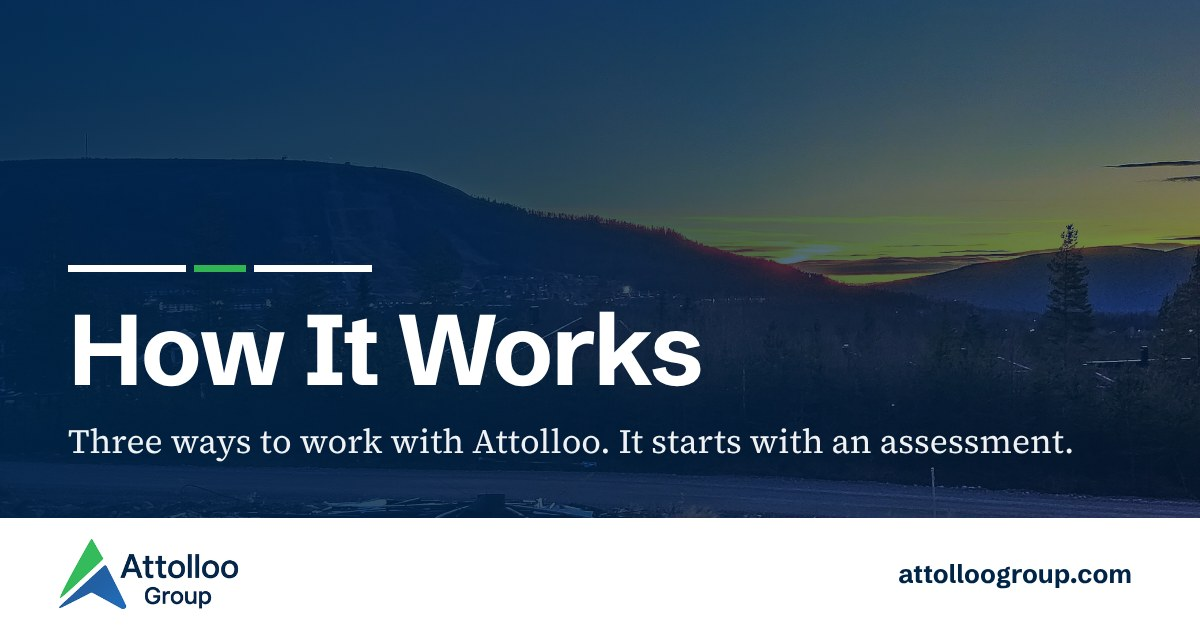
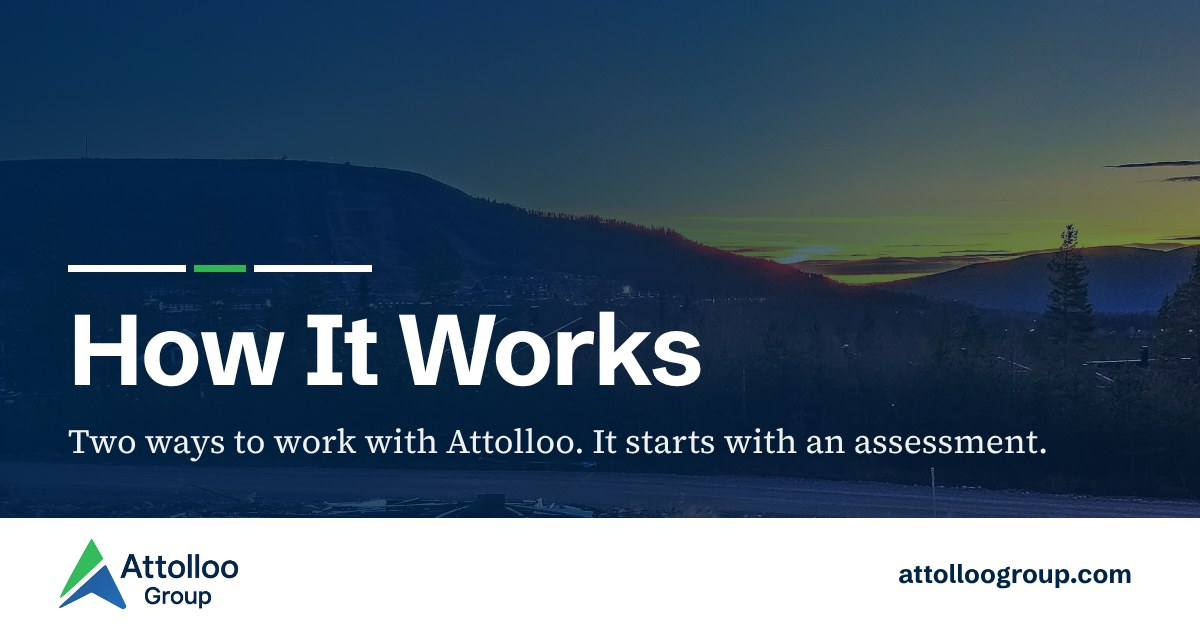
Take Executive Partnership out of the offer for now
The site now offers two things: the Readiness Assessment, and board,
advisory and mentoring roles. Interim leadership roles and equity are
no longer offered.

- Home, How It Works, About, the self-test, the film, the 404 page,
  the page description and share image for How It Works.
- The example: the comparison is now advisory role or no further
  engagement; the expected-value calculation for a partnership is out.
- Research: Executive-as-a-Service is described without reference to
  an offer on the site.

Claude-Session: https://claude.ai/code/session_01EqymyeME5KcQUJPNYzq5nF

Changed region(s): [[0.0617, 0.6635, 0.8942, 0.7238]]

diff --git a/services.html b/services.html
@@ -4,17 +4,17 @@
   <meta charset="UTF-8" />
   <meta name="viewport" content="width=device-width, initial-scale=1.0" />
   <title>How It Works – Attolloo Group</title>
-  <meta name="description" content="Three ways to work with Attolloo: a fixed-price Readiness Assessment, board, advisory and mentoring roles, and executive partnership for selected companies." />
+  <meta name="description" content="Two ways to work with Attolloo: a fixed-price Readiness Assessment that takes about three weeks, and board, advisory and mentoring roles for an agreed fee." />
   <link rel="canonical" href="https://attolloogroup.com/services.html" />
   <meta property="og:type" content="website" />
   <meta property="og:site_name" content="Attolloo Group" />
   <meta property="og:title" content="How It Works – Attolloo Group" />
-  <meta property="og:description" content="Three ways to work with Attolloo: a fixed-price Readiness Assessment, board, advisory and mentoring roles, and executive partnership for selected companies." />
+  <meta property="og:description" content="Two ways to work with Attolloo: a fixed-price Readiness Assessment that takes about three weeks, and board, advisory and mentoring roles for an agreed fee." />
   <meta property="og:url" content="https://attolloogroup.com/services.html" />
   <meta property="og:image" content="https://attolloogroup.com/images/share/share-how-it-works.jpg" />
   <meta property="og:image:width" content="1200" />
   <meta property="og:image:height" content="630" />
-  <meta property="og:image:alt" content="How It Works: three ways to work with Attolloo. It starts with an assessment." />
+  <meta property="og:image:alt" content="How It Works: two ways to work with Attolloo. It starts with an assessment." />
   <meta name="twitter:card" content="summary_large_image" />
   <meta name="twitter:image" content="https://attolloogroup.com/images/share/share-how-it-works.jpg" />
   <script type="application/ld+json">
@@ -26,7 +26,7 @@
         "@id": "https://attolloogroup.com/services.html#webpage",
         "url": "https://attolloogroup.com/services.html",
         "name": "How It Works – Attolloo Group",
-        "description": "Three ways to work with Attolloo: a fixed-price Readiness Assessment, board, advisory and mentoring roles, and executive partnership for selected companies.",
+        "description": "Two ways to work with Attolloo: a fixed-price Readiness Assessment that takes about three weeks, and board, advisory and mentoring roles for an agreed fee.",
         "inLanguage": "en",
         "isPartOf": {
           "@id": "https://attolloogroup.com/#website"

diff --git a/404.html b/404.html
@@ -26,7 +26,7 @@
     <p>These pages do exist:</p>
     <ul>
       <li><a href="/">Home</a></li>
-      <li><a href="/services.html">How It Works</a>, the three ways to work with Attolloo</li>
+      <li><a href="/services.html">How It Works</a>, the two ways to work with Attolloo</li>
       <li><a href="/6sense.html">6Sense Filter</a>, <a href="/ai-compass.html">AI Compass</a>, <a href="/polaris.html">Polaris Sprints</a> and <a href="/kando.html">Kando Framework</a></li>
       <li><a href="/example.html">Method in Practice</a>, a worked example</li>
       <li><a href="/responsible-ai.html">Responsible AI</a></li>
